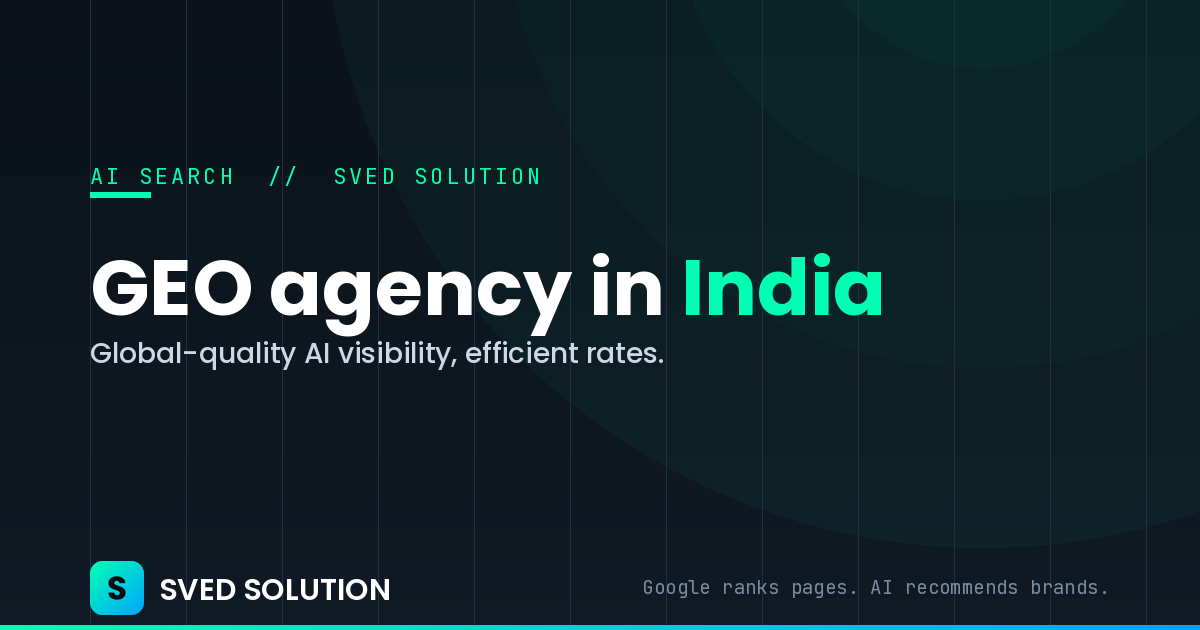
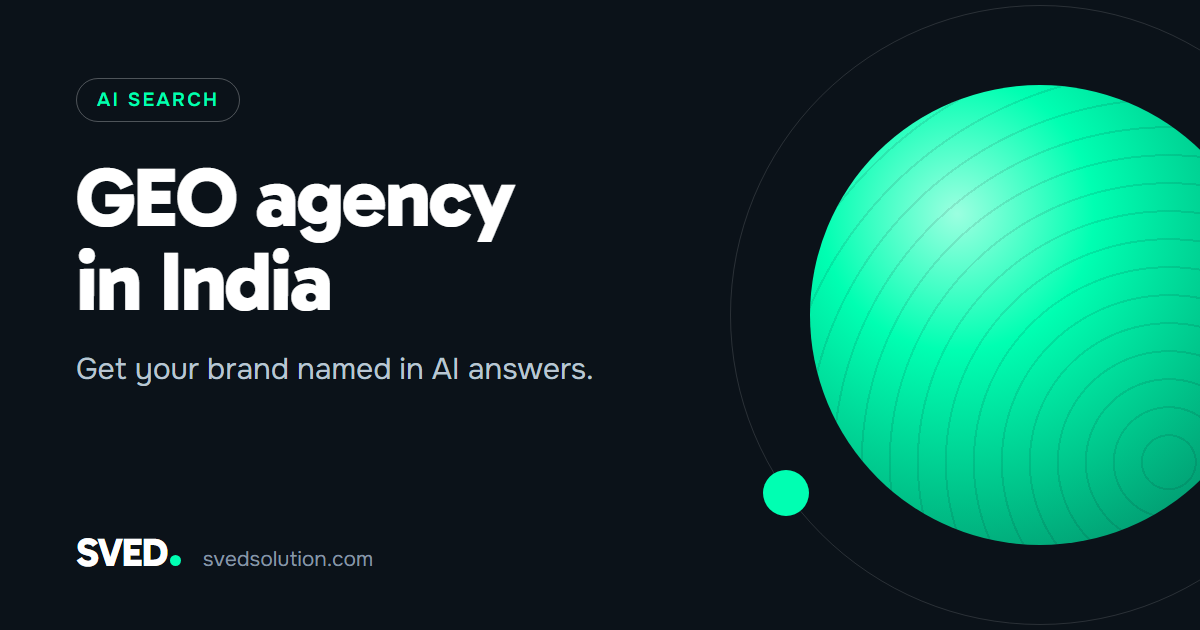
Regenerate the 19 older blog share images in the new design
Same file names, so no post changes. All 31 post images now share one style:
navy canvas, green orb, text wordmark, no logo. The generator covers every post.

diff --git a/brand/share-image/make_og.py b/brand/share-image/make_og.py
@@ -29,6 +29,27 @@ CARDS = {
     "seo-company-kolkata": ("Local SEO · Kolkata", "SEO company in Kolkata", "Rank on Google and get named by AI."),
     "should-you-block-gptbot": ("Technical SEO", "Should you block GPTBot?", "An honest look at the costs and benefits."),
     "technical-seo-agency-london": ("Local SEO · London", "Technical SEO agency in London", "The groundwork for Google and AI search."),
+    # Posts whose image file name predates the blog-<slug>.png convention: the fourth
+    # value is the file name the post's front matter already points at.
+    "ai-citation-building": ("AI search", "AI citation building", "How brands get named by ChatGPT.", "blog-ai-citation-building.png"),
+    "ai-seo-for-d2c-ecommerce-brands": ("Industry SEO", "AI SEO for D2C & ecommerce brands", "Get your products named in AI answers.", "blog-d2c-ecommerce-ai-seo.png"),
+    "ai-seo-for-web3": ("Industry SEO", "AI SEO for Web3", "How crypto projects get named by AI.", "blog-ai-seo-web3.png"),
+    "ai-seo-services-pricing-cost-guide": ("SEO pricing", "AI SEO pricing & cost guide", "About $500 to $25,000+ a month in 2026.", "blog-ai-seo-pricing.png"),
+    "education-edtech-seo-india": ("Industry SEO", "EdTech & education SEO in India", "Rank on Google and get named by AI.", "blog-edtech-seo-india.png"),
+    "generative-engine-optimization-agency-india": ("AI search", "GEO agency in India", "Get your brand named in AI answers.", "blog-geo-agency-india.png"),
+    "geo-vs-seo": ("Strategy", "GEO vs SEO", "How they differ, and why you need both.", "blog-geo-vs-seo.png"),
+    "how-to-appear-in-google-ai-overviews": ("AI search", "How to appear in Google AI Overviews", "A step-by-step guide for 2026.", "blog-google-ai-overviews.png"),
+    "how-to-rank-in-chatgpt": ("AI search", "How to rank in ChatGPT", "A five-step method for 2026.", "blog-how-to-rank-in-chatgpt.png"),
+    "saas-ai-product-seo": ("Industry SEO", "SaaS & AI product SEO", "Rank on Google and get named by AI.", "blog-saas-ai-seo.png"),
+    "schema-markup-for-ai-search": ("AI search", "Schema markup for AI search", "Which markup to add, and where.", "blog-schema-for-ai.png"),
+    "seo-for-fertility-ivf-clinics": ("Healthcare SEO", "SEO for fertility & IVF clinics", "Get found on Google and named by AI.", "blog-seo-for-fertility-ivf-clinics.png"),
+    "seo-for-it-services-app-development": ("Industry SEO", "SEO for IT services & app development", "Win the buyers who are ready to hire.", "blog-it-app-dev-seo.png"),
+    "seo-for-ivf-fertility-clinics-checklist": ("Healthcare SEO", "IVF clinic SEO checklist", "A 2026 checklist for fertility clinics.", "blog-fertility-clinic-checklist.png"),
+    "seo-for-loss-prevention-companies": ("Industry SEO", "SEO for loss prevention companies", "A guide for the US and UK.", "blog-seo-for-loss-prevention-companies.png"),
+    "web3-crypto-seo-agency": ("Industry SEO", "Web3 & crypto SEO agency", "Get found on Google and named by AI.", "blog-web3-crypto-seo.png"),
+    "what-is-answer-engine-optimization": ("AI search", "What is answer engine optimization?", "AEO explained, with a 2026 guide.", "blog-what-is-aeo.png"),
+    "what-is-generative-engine-optimization": ("AI search", "What is generative engine optimization?", "GEO explained, with a 2026 guide.", "blog-what-is-geo.png"),
+    "what-is-llm-seo": ("AI search", "What is LLM SEO?", "How to be read and quoted by ChatGPT.", "blog-what-is-llm-seo.png"),
 }
 
 PAGE = """<!doctype html><html><head><meta charset="utf-8"><style>
@@ -65,6 +86,10 @@ p { margin-top: 26px; font-size: 30px; line-height: 1.3; color: #B9C6D2; max-wid
     const lines = () => Math.round(h.getBoundingClientRect().height / (s * 1.0));
     const set = v => { s = v; h.style.fontSize = s + 'px'; };
     // Prefer two lines if a slightly smaller size gets there; otherwise keep full size on three.
+    // A short, one-line headline gets more presence.
+    if (lines() === 1) { const span = document.createRange(); span.selectNodeContents(h);
+      while (s < 108 && span.getBoundingClientRect().width < 560) set(s + 2);
+      if (lines() > 1 || span.getBoundingClientRect().width > 600) set(s - 2); }
     if (lines() > 2) { let t = 84; while (t > 72) { t -= 2; set(t); if (lines() <= 2) break; } if (lines() > 2) set(84); }
     while ((lines() > 3 || document.querySelector('p').getBoundingClientRect().bottom > 500) && s > 48) set(s - 2);
     document.body.dataset.ready = s;
@@ -84,14 +109,15 @@ with sync_playwright() as p:
     browser = p.chromium.launch()
     page = browser.new_page(viewport={"width": 1200, "height": 630}, device_scale_factor=1)
     for slug in slugs:
-        tag, head, sub = CARDS[slug]
+        tag, head, sub = CARDS[slug][:3]
+        fname = CARDS[slug][3] if len(CARDS[slug]) > 3 else f"blog-{slug}.png"
         with open(tmp, "w", encoding="utf-8") as f:
             f.write(PAGE % {"fonts": FONTS, "tag": esc(tag), "head": esc(head), "sub": esc(sub)})
         page.goto("file:///" + tmp.replace("\\", "/").replace(" ", "%20"))
         page.wait_for_function("document.body.dataset.ready")
         fonts = page.evaluate("[document.fonts.check('800 84px Gabarito'), document.fonts.check('400 30px Onest')]")
         size = page.evaluate("document.body.dataset.ready")
-        dest = os.path.join(out, f"blog-{slug}.png")
+        dest = os.path.join(out, fname)
         page.screenshot(path=dest)
         print(f"{slug}: headline {size}px, fonts loaded {fonts}, {os.path.getsize(dest) // 1024} KB")
     browser.close()
